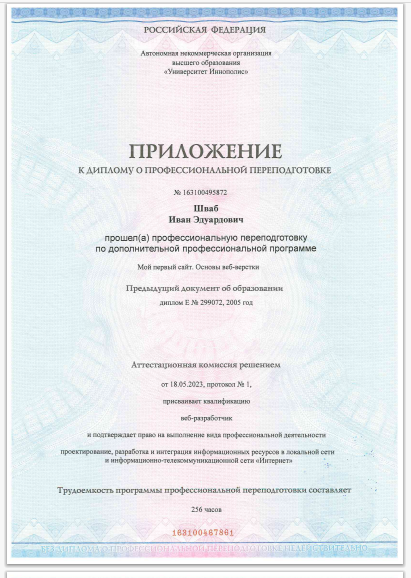
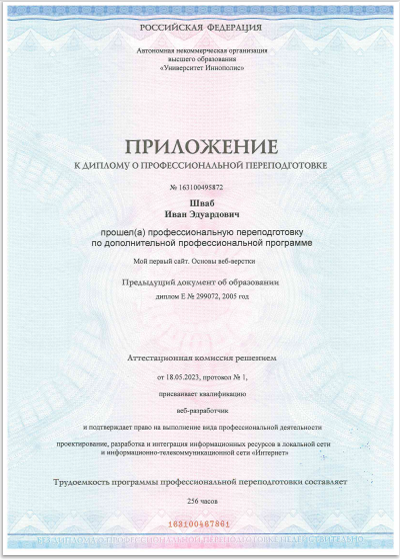
добавление диплома

Changed region(s): [[0.0, 0.0, 1.0, 1.0], [0.18, 0.2429, 0.81, 0.5464]]

diff --git a/index.html b/index.html
@@ -16,39 +16,61 @@
       <img src="./images/my-photo.jpg" alt="моё фото" class="info__image">
       <div class="column">
         <h1 class="heading"> Иван Шваб</h1>
-        <p class="info__text">прошёл курсы на веб разработки в Университете Иннополис</p>
-        <p class="text">программе курса: основы HTML и CSS; знакомство с языком программирования JavaScript;
-          работа с системой контроля версий Git;
-          методология веб-разработки БЭМ;
-          работа над учебным проектом.
-        </p>
         <ul class="info__list">
-          <li>
-            <p class="info__text">Мои социальные сети:</p>
+          <li class="list__text">
+            <p class="info__text">прошёл курсы на веб разработки в Университете Иннополис.</p>
           </li>
           <li class="list__text">
-            <a href="https://web.whatsapp.com/" class="info__link" target="_blank">WhatsApp</a>
+            <p class="info__text">В программе курса:</p>
           </li>
           <li class="list__text">
-            <a href="https://web.telegram.org/k/#-1819555005" class="info__link" target="_blank">Telegram</a>
+            <p class="info__text"> - основы HTML и CSS;</p>
           </li>
           <li class="list__text">
-            <a href="tel:=79609097122" class="info__link" target="_blank">8 960 909 7122</a>
+            <p class="info__text">- знакомство с языком программирования JavaScript;</p>
           </li>
-          <li>
-            <p class="info__text">Моя вёрстка с фигмы при учёбе:</p>
+          <li class="list__text">
+            <p class="info__text">- работа с системой контроля версий Git;</p>
           </li>
-          <li>
-            <a href=" https://edvaldovic.github.io/server-maket/" class="info__link" target="_blank">первая
-              работа</a>
+          <li class="list__text">
+            <p class="info__text">- методология веб-разработки БЭМ;</p>
           </li>
-          <li>
-            <a href="https://edvaldovic.github.io/Leader/ " class="info__link" target="_blank">вторая
-              работа</a>
+          <li class="list__text">
+            <p class="info__text">- работа над учебным проектом.</p>
           </li>
         </ul>
       </div>
     </div>
+    <div class="box__img">
+      <img src="./images/диплом.png" alt="диплом 1стр." class="img">
+      <img src="./images/диплом 2стр.png" alt="диплом 2стр." class="img">
+    </div>
+    <ul class="info__list">
+      <li class="list__text">
+        <p class="info__list__text">Мои социальные сети:</p>
+      </li>
+      <li class="list__text">
+        <a href="https://web.whatsapp.com/" class="info__link" target="_blank">WhatsApp</a>
+      </li>
+      <li class="list__text">
+        <a href="https://web.telegram.org/k/#-1819555005" class="info__link" target="_blank">Telegram</a>
+      </li>
+      <li class="list__text">
+        <a href="tel:=79609097122" class="info__link" target="_blank">8 960 909 7122</a>
+      </li>
+      <li class="list__text">
+        <p class="info__list__text">Моя вёрстка с фигмы при учёбе:</p>
+      </li>
+      <li>
+        <a href=" https://edvaldovic.github.io/server-maket/" class="info__link" target="_blank">первая
+          работа</a>
+      </li>
+      <li class="list__text">
+        <a href="https://edvaldovic.github.io/Leader/ " class="info__link" target="_blank">вторая
+          работа</a>
+      </li>
+    </ul>
+
     <div class="pole">
       <h2>Моё хобби:</h2>
       <ul class="pole_list">
@@ -79,8 +101,9 @@
     </div>
     <div class="container">
       <div class="container__move">
-        <button class="btn__left" type="button"><img src="./images/icons8-стрелка-24.png" alt=""></button>
-        <button class="btn__right" type="button"><img src="./images/icons8-стрелка-24 (1).png" alt=""></button>
+        <button class="btn__left" type="button"><img src="./images/icons8-стрелка-24.png" alt="стрелка в лево"></button>
+        <button class="btn__right" type="button"><img src="./images/icons8-стрелка-24 (1).png" alt="">стрелка в
+          право</button>
         <img src="./images/1.jpg" alt="моя бывшая работа" class="images">
         <img src="./images/2.jpg" alt="моя бывшая работа" class="images">
         <img src="./images/3.jpg" alt="моя бывшая работа" class="images">

diff --git a/styles.css b/styles.css
@@ -20,7 +20,7 @@
 }
 
 .page {
-  max-width: 750px;
+  max-width: 850px;
   margin: 0 auto;
   padding-top: 50px;
 }
@@ -31,7 +31,6 @@
   font-size: 24px;
   margin: 0 auto;
   margin-top: 10px;
-  text-align: center;
 }
 
 .info__list {
@@ -40,6 +39,28 @@
   font-size: 24px;
   list-style-type: none;
   padding: 0;
+}
+
+.info__list__text {
+  color: black;
+  font-weight: 700;
+  font-size: 24px;
+  margin: 0 auto;
+  margin-top: 10px;
+  text-align: center;
+}
+
+.box__img {
+  display: flex;
+  align-items: center;
+  justify-content: center;
+  gap: 10px;
+}
+
+.img {
+  width: 300px;
+  height: 400px;
+  object-fit: cover;
 }
 
 .info__link {
@@ -269,6 +290,10 @@
     overflow: hidden;
     margin: 0 auto;
     margin-top: 25px;
+  }
+
+  .box__img {
+    flex-direction: column;
   }
 
   .btn__right {
